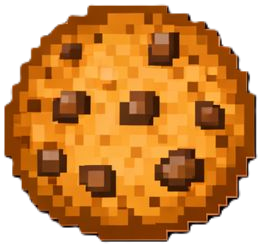
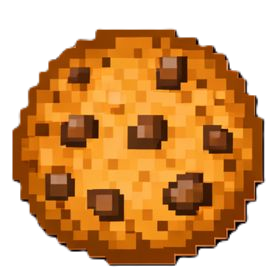
back to 1 image
Went back to multiple images for now
will fix them moving later, prob

diff --git a/main.py b/main.py
@@ -15,25 +15,18 @@ class Cookie:
         self._width = width
         self._height = height
 
-    def draw(self, cookie_level):
+    def draw():
         
-        # cookie = pygame.image.load(f"cookies/cookies_{cookie_level}.png")
-        # cookie_rect = cookie.get_rect()
-        # cookie_rect.center = (WINDOW_WIDTH // 2, WINDOW_HEIGHT // 2)
-
-        # window.blit(cookie, cookie_rect)
-
-        original_cookie = pygame.image.load("cookies.png")
-        # Adjust x_pos based on cookie_level to get the next cookie
-        x_offset = self._x_pos + (cookie_level - 1) * self._width
-        cookie = original_cookie.subsurface(pygame.Rect(x_offset, self._y_pos, self._height, self._width))
-
+        cookie = pygame.image.load(f"cookies/cookies_{cookie_level}.png")
         cookie_rect = cookie.get_rect()
-        cookie_rect.center = (WINDOW_WIDTH // 2, WINDOW_HEIGHT // 2 )
+        cookie_rect.center = (WINDOW_WIDTH // 2, WINDOW_HEIGHT // 2)
+
         window.blit(cookie, cookie_rect)
 
 
-cookie = Cookie(18,25,250,250)
+
+
+
 
 
 cookie_level = 1
@@ -65,7 +58,7 @@ while running:
     window.fill((255, 255, 255)) 
     window.blit(upgrade_tekst_render,upgrade_tekst_rect)
 
-    cookie.draw(cookie_level)
+    Cookie.draw()
 
 
     
